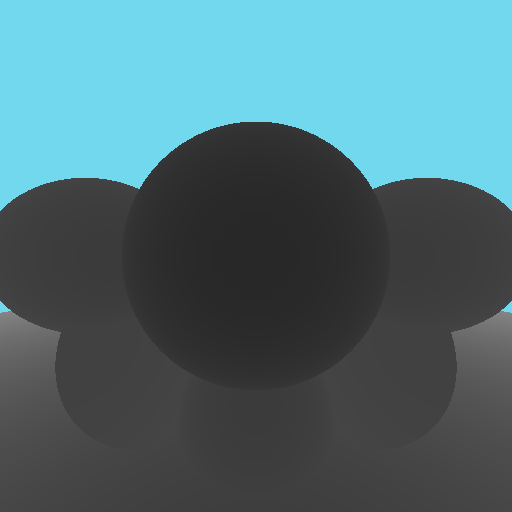
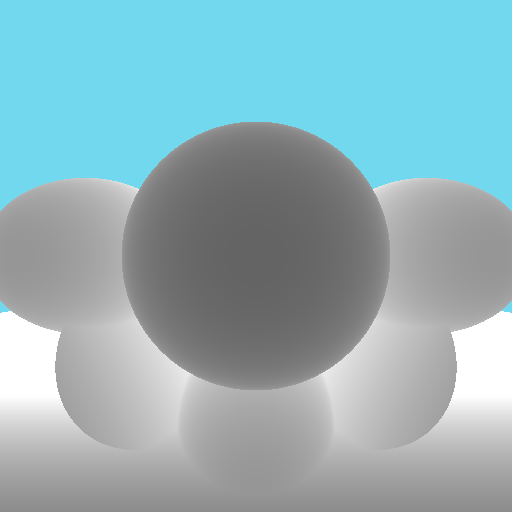
Scene

diff --git a/src/App.java b/src/App.java
@@ -11,6 +11,14 @@ import shader.*;
 
 class App {
     public static void main(String[] args) throws IOException{
+        myScene();
+        // scene1();
+        // scene2();
+        // scene3();
+        // screen();
+    }
+
+    static void myScene(){
         int size = 512;
         
         HashSet<Geometry> geometries = new HashSet<>();
@@ -27,13 +35,38 @@ class App {
 
         Camera camera = new Camera(new Point(0, 0, -100), new Point(0, 0, 0), 110, size, size);
 
-        // makeImage(size, new ScreenPixelShader());
-        // makeImage(size, new ScreenDistanceShader());
-        // makeImage(size, new ScreenNormalShader());
-
         makeImage(camera, new DistanceShader(),  geometries);
         makeImage(camera, new IntersectShader(), geometries);
         makeImage(camera, new NormalShader(),    geometries);
+    }
+
+    static void makeImage(Camera camera, Shader shader, Scene scene){
+        int width = camera.getWidth();
+        int height = camera.getHeight();
+
+        BufferedImage image = new BufferedImage(width, height, BufferedImage.TYPE_INT_RGB);
+        Color def = new Color(113, 216, 237); // default color
+        
+        for (int x = 0; x < width; x++) for (int y = 0; y < height; y++) {
+            Color color = null;
+            double z = Double.MAX_VALUE;
+            Ray ray = camera.generateRay(x, y);
+            
+            color = (scene.traceRay(ray)) ? new Color(1,1,1) : def;
+            // for(Geometry geometry : geometries){
+            //     Color maybeColor = shader.getColor(ray, geometry);
+            //     // Only use the closest color
+            //     if(ray.t() < z){
+            //         color = maybeColor;
+            //         z = ray.t();
+            //     }
+            // }
+            // if(color == null) color = def;
+
+            image.setRGB(x, height-y-1, color.rgb() );
+        };
+
+        writeImage(image, shader.getName());
     }
 
     static void makeImage(Camera camera, Shader shader, HashSet<Geometry> geometries){
@@ -44,21 +77,20 @@ class App {
         Color def = new Color(113, 216, 237); // default color
         
         for (int x = 0; x < width; x++) for (int y = 0; y < height; y++) {
-            //setup
-            Color  color = null;
-            double z = Integer.MAX_VALUE;
+            Color color = null;
+            double z = Double.MAX_VALUE;
             Ray ray = camera.generateRay(x, y);
             
-            //use shader on geometries
             for(Geometry geometry : geometries){
                 Color maybeColor = shader.getColor(ray, geometry);
+                // Only use the closest color
                 if(ray.t() < z){
                     color = maybeColor;
                     z = ray.t();
                 }
             }
             if(color == null) color = def;
-            // apply the color
+
             image.setRGB(x, height-y-1, color.rgb() );
         };
 
@@ -86,5 +118,35 @@ class App {
         } catch (Exception e) {
             System.out.println(e.getMessage());
         }
+    }
+
+    static void screen(){
+        int size = 512;
+
+        makeImage(size, new ScreenPixelShader());
+        makeImage(size, new ScreenDistanceShader());
+        makeImage(size, new ScreenNormalShader());
+    }
+
+    static void scene1(){
+        Camera camera = new Camera(new Point(0, 0, -10), new Point(0, 0, 0), 7.7, 800, 600);
+        HashSet<Geometry> geometries = new HashSet<>();
+        geometries.add(new Sphere(new Point(0, 0, 0), 0.5));
+        makeImage(camera, new IntersectShader(), geometries);
+    }
+
+    static void scene2(){
+        Camera camera = new Camera(new Point(0, 0, -10), new Point(1, 1, 0), 11, 600, 600);
+        HashSet<Geometry> geometries = new HashSet<>();
+        geometries.add(new Sphere(new Point(0, 0, 0), 0.5));
+        makeImage(camera, new IntersectShader(), geometries);
+    }
+
+    static void scene3(){
+        Camera camera = new Camera(new Point(10, 10, -10), new Point(0, 0, 0), 3.3, 600, 600);
+        HashSet<Geometry> geometries = new HashSet<>();
+        geometries.add(new Sphere(new Point(0, 0, 0), 0.5));
+        Scene scene = new Scene(geometries);
+        makeImage(camera, new IntersectShader(), scene);
     }
 }

diff --git a/src/Scene.java b/src/Scene.java
@@ -1,0 +1,29 @@
+import java.util.HashSet;
+
+import geometry.Geometry;
+import math.Ray;
+import shader.IntersectShader;
+import shader.Shader;
+
+public class Scene {
+    HashSet<Geometry> geometries;
+    HashSet<LightSource> lightSources;
+    HashSet<Material> materials;
+
+    public Scene(HashSet<Geometry> geometries) {
+        this.geometries = geometries;
+    }
+
+    public boolean traceRay(Ray ray){
+        double z = Double.MAX_VALUE;
+        for(Geometry geometry : geometries){
+            // TODO generalize shader
+            Shader shader = new IntersectShader();
+            shader.getColor(ray, geometry);
+            z = Math.min(z,ray.t());
+        }
+        return z!= Double.MAX_VALUE;
+    }
+
+    public HashSet<Geometry> getGeometries() { return geometries; }
+}

diff --git a/src/shader/DistanceShader.java b/src/shader/DistanceShader.java
@@ -10,8 +10,7 @@ public class DistanceShader implements Shader{
     public Color getColor(Ray ray, Geometry geometry) {
         if(geometry.intersect(ray)){
             double dis = ray.dir().mul(ray.t()).mag();
-            //TODO clean up this
-            dis = Math.sqrt(dis)*4;
+            dis = ray.t();
             return new Color(dis,dis,dis);
         }
         return null;

diff --git a/src/Material.java b/src/Material.java
@@ -1,0 +1,4 @@
+
+public class Material {
+
+}

diff --git a/src/LightSource.java b/src/LightSource.java
@@ -1,0 +1,2 @@
+public class LightSource {
+}
